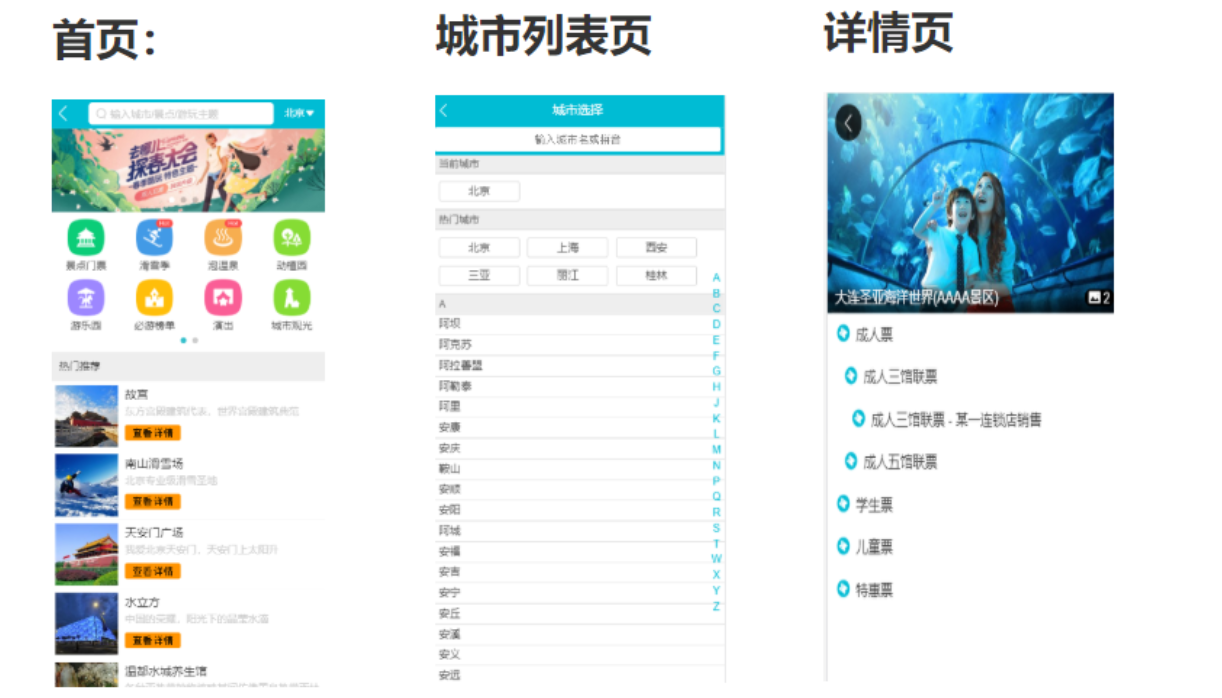
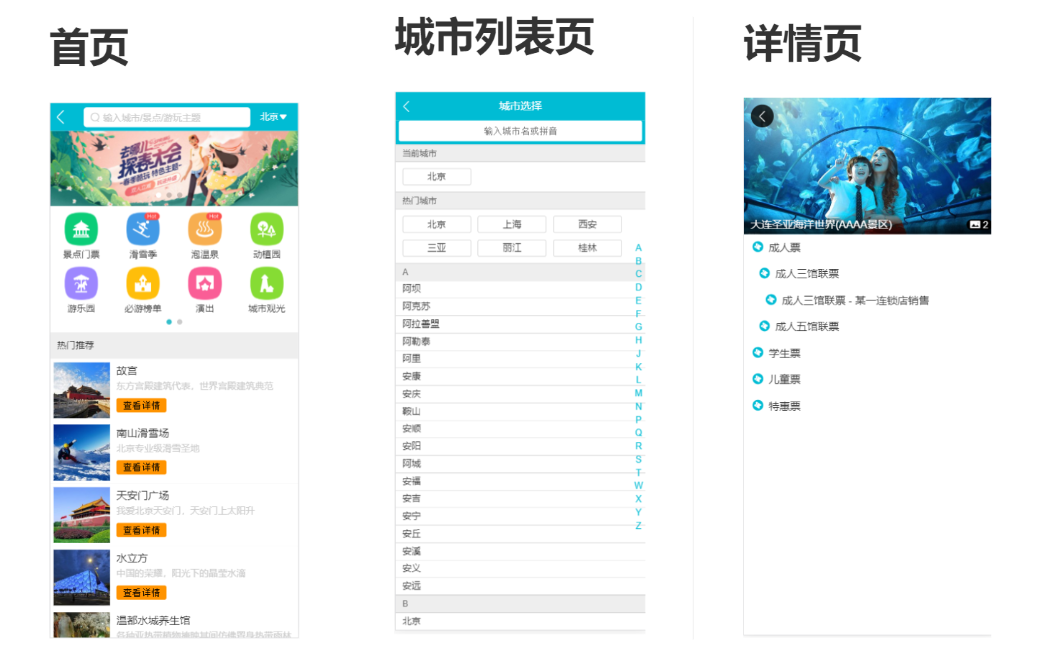
README

diff --git a/README.md b/README.md
@@ -6,7 +6,16 @@
 3. CSS的预处理框架：stylu
 
 ## 项目主要效果展示
-<img width="650" src="./imgs/result.png"/>
+<img width="800" src="./imgs/result.png"/>
+<!-- <figure class="third">
+<img width="150" src="./imgs/first.png"/><img width="150" src="./imgs/city.png"/><img width="150" src="./imgs/details.png"/>
+</figure> -->
+<!-- ### 首页
+<img width="150" src="./imgs/first.png"/>
+### 城市列表页
+<img width="150" src="./imgs/city.png"/>
+### 详情页
+<img width="150" src="./imgs/details.png"/> -->
 
 ## 项目开发流程
 
